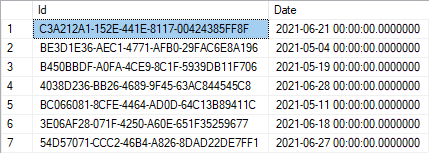
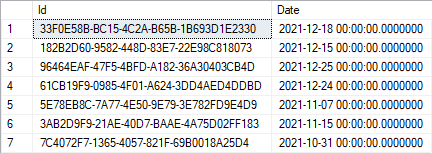
add copyrigt information and update the namespaces

diff --git a/sources/QueryableVsEnumerable/Migrations/20211112035111_Initial.Designer.cs b/sources/QueryableVsEnumerable/Migrations/20211112035111_Initial.Designer.cs
@@ -1,17 +1,17 @@
 // <auto-generated />
 using System;
+using DustInTheWind.QueryableVsEnumerable;
 using Microsoft.EntityFrameworkCore;
 using Microsoft.EntityFrameworkCore.Infrastructure;
 using Microsoft.EntityFrameworkCore.Metadata;
 using Microsoft.EntityFrameworkCore.Migrations;
 using Microsoft.EntityFrameworkCore.Storage.ValueConversion;
-using QueryableVsEnumerable;
 
-namespace QueryableVsEnumerable.Migrations
+namespace DustInTheWind.QueryableVsEnumerable.Migrations
 {
     [DbContext(typeof(ShopDbContext))]
-    [Migration("20210628064709_Second")]
-    partial class Second
+    [Migration("20211112035111_Initial")]
+    partial class Initial
     {
         protected override void BuildTargetModel(ModelBuilder modelBuilder)
         {
@@ -21,7 +21,7 @@ namespace QueryableVsEnumerable.Migrations
                 .HasAnnotation("ProductVersion", "5.0.7")
                 .HasAnnotation("SqlServer:ValueGenerationStrategy", SqlServerValueGenerationStrategy.IdentityColumn);
 
-            modelBuilder.Entity("QueryableVsEnumerable.Order", b =>
+            modelBuilder.Entity("DustInTheWind.QueryableVsEnumerable.Order", b =>
                 {
                     b.Property<Guid>("Id")
                         .ValueGeneratedOnAdd()
@@ -37,38 +37,38 @@ namespace QueryableVsEnumerable.Migrations
                     b.HasData(
                         new
                         {
-                            Id = new Guid("d5ec2305-3db5-4864-ba7d-bdc2c3da0d88"),
-                            Date = new DateTime(2021, 6, 28, 0, 0, 0, 0, DateTimeKind.Local)
+                            Id = new Guid("96464eaf-47f5-4bfd-a182-36a30403cb4d"),
+                            Date = new DateTime(2021, 12, 25, 0, 0, 0, 0, DateTimeKind.Unspecified)
                         },
                         new
                         {
-                            Id = new Guid("80fd270c-de5f-4deb-90f9-ac76d28398a0"),
-                            Date = new DateTime(2021, 5, 4, 0, 0, 0, 0, DateTimeKind.Local)
+                            Id = new Guid("7c4072f7-1365-4057-821f-69b0018a25d4"),
+                            Date = new DateTime(2021, 10, 31, 0, 0, 0, 0, DateTimeKind.Unspecified)
                         },
                         new
                         {
-                            Id = new Guid("0469137b-ae56-40d3-9488-596a7a9e188d"),
-                            Date = new DateTime(2021, 6, 21, 0, 0, 0, 0, DateTimeKind.Local)
+                            Id = new Guid("33f0e58b-bc15-4c2a-b65b-1b693d1e2330"),
+                            Date = new DateTime(2021, 12, 18, 0, 0, 0, 0, DateTimeKind.Unspecified)
                         },
                         new
                         {
-                            Id = new Guid("6e63fd29-c5f9-4ec4-9f3f-57838454425b"),
-                            Date = new DateTime(2021, 6, 18, 0, 0, 0, 0, DateTimeKind.Local)
+                            Id = new Guid("182b2d60-9582-448d-83e7-22e98c818073"),
+                            Date = new DateTime(2021, 12, 15, 0, 0, 0, 0, DateTimeKind.Unspecified)
                         },
                         new
                         {
-                            Id = new Guid("b12b46ed-f1e8-4942-b525-87465d56084f"),
-                            Date = new DateTime(2021, 5, 19, 0, 0, 0, 0, DateTimeKind.Local)
+                            Id = new Guid("3ab2d9f9-21ae-40d7-baae-4a75d02ff183"),
+                            Date = new DateTime(2021, 11, 15, 0, 0, 0, 0, DateTimeKind.Unspecified)
                         },
                         new
                         {
-                            Id = new Guid("2bedf5b3-05a9-4d43-92db-0bbad201d1de"),
-                            Date = new DateTime(2021, 6, 27, 0, 0, 0, 0, DateTimeKind.Local)
+                            Id = new Guid("61cb19f9-0985-4f01-a624-3dd4aed4ddbd"),
+                            Date = new DateTime(2021, 12, 24, 0, 0, 0, 0, DateTimeKind.Unspecified)
                         },
                         new
                         {
-                            Id = new Guid("cbdafc5d-257f-4eec-8177-af56175bf26f"),
-                            Date = new DateTime(2021, 5, 11, 0, 0, 0, 0, DateTimeKind.Local)
+                            Id = new Guid("5e78eb8c-7a77-4e50-9e79-3e782fd9e4d9"),
+                            Date = new DateTime(2021, 11, 7, 0, 0, 0, 0, DateTimeKind.Unspecified)
                         });
                 });
 #pragma warning restore 612, 618

diff --git a/sources/QueryableVsEnumerable/Migrations/ShopDbContextModelSnapshot.cs b/sources/QueryableVsEnumerable/Migrations/ShopDbContextModelSnapshot.cs
@@ -1,12 +1,12 @@
 // <auto-generated />
 using System;
+using DustInTheWind.QueryableVsEnumerable;
 using Microsoft.EntityFrameworkCore;
 using Microsoft.EntityFrameworkCore.Infrastructure;
 using Microsoft.EntityFrameworkCore.Metadata;
 using Microsoft.EntityFrameworkCore.Storage.ValueConversion;
-using QueryableVsEnumerable;
 
-namespace QueryableVsEnumerable.Migrations
+namespace DustInTheWind.QueryableVsEnumerable.Migrations
 {
     [DbContext(typeof(ShopDbContext))]
     partial class ShopDbContextModelSnapshot : ModelSnapshot
@@ -19,7 +19,7 @@ namespace QueryableVsEnumerable.Migrations
                 .HasAnnotation("ProductVersion", "5.0.7")
                 .HasAnnotation("SqlServer:ValueGenerationStrategy", SqlServerValueGenerationStrategy.IdentityColumn);
 
-            modelBuilder.Entity("QueryableVsEnumerable.Order", b =>
+            modelBuilder.Entity("DustInTheWind.QueryableVsEnumerable.Order", b =>
                 {
                     b.Property<Guid>("Id")
                         .ValueGeneratedOnAdd()
@@ -35,38 +35,38 @@ namespace QueryableVsEnumerable.Migrations
                     b.HasData(
                         new
                         {
-                            Id = new Guid("d5ec2305-3db5-4864-ba7d-bdc2c3da0d88"),
-                            Date = new DateTime(2021, 6, 28, 0, 0, 0, 0, DateTimeKind.Local)
+                            Id = new Guid("96464eaf-47f5-4bfd-a182-36a30403cb4d"),
+                            Date = new DateTime(2021, 12, 25, 0, 0, 0, 0, DateTimeKind.Unspecified)
                         },
                         new
                         {
-                            Id = new Guid("80fd270c-de5f-4deb-90f9-ac76d28398a0"),
-                            Date = new DateTime(2021, 5, 4, 0, 0, 0, 0, DateTimeKind.Local)
+                            Id = new Guid("7c4072f7-1365-4057-821f-69b0018a25d4"),
+                            Date = new DateTime(2021, 10, 31, 0, 0, 0, 0, DateTimeKind.Unspecified)
                         },
                         new
                         {
-                            Id = new Guid("0469137b-ae56-40d3-9488-596a7a9e188d"),
-                            Date = new DateTime(2021, 6, 21, 0, 0, 0, 0, DateTimeKind.Local)
+                            Id = new Guid("33f0e58b-bc15-4c2a-b65b-1b693d1e2330"),
+                            Date = new DateTime(2021, 12, 18, 0, 0, 0, 0, DateTimeKind.Unspecified)
                         },
                         new
                         {
-                            Id = new Guid("6e63fd29-c5f9-4ec4-9f3f-57838454425b"),
-                            Date = new DateTime(2021, 6, 18, 0, 0, 0, 0, DateTimeKind.Local)
+                            Id = new Guid("182b2d60-9582-448d-83e7-22e98c818073"),
+                            Date = new DateTime(2021, 12, 15, 0, 0, 0, 0, DateTimeKind.Unspecified)
                         },
                         new
                         {
-                            Id = new Guid("b12b46ed-f1e8-4942-b525-87465d56084f"),
-                            Date = new DateTime(2021, 5, 19, 0, 0, 0, 0, DateTimeKind.Local)
+                            Id = new Guid("3ab2d9f9-21ae-40d7-baae-4a75d02ff183"),
+                            Date = new DateTime(2021, 11, 15, 0, 0, 0, 0, DateTimeKind.Unspecified)
                         },
                         new
                         {
-                            Id = new Guid("2bedf5b3-05a9-4d43-92db-0bbad201d1de"),
-                            Date = new DateTime(2021, 6, 27, 0, 0, 0, 0, DateTimeKind.Local)
+                            Id = new Guid("61cb19f9-0985-4f01-a624-3dd4aed4ddbd"),
+                            Date = new DateTime(2021, 12, 24, 0, 0, 0, 0, DateTimeKind.Unspecified)
                         },
                         new
                         {
-                            Id = new Guid("cbdafc5d-257f-4eec-8177-af56175bf26f"),
-                            Date = new DateTime(2021, 5, 11, 0, 0, 0, 0, DateTimeKind.Local)
+                            Id = new Guid("5e78eb8c-7a77-4e50-9e79-3e782fd9e4d9"),
+                            Date = new DateTime(2021, 11, 7, 0, 0, 0, 0, DateTimeKind.Unspecified)
                         });
                 });
 #pragma warning restore 612, 618

diff --git a/sources/QueryableVsEnumerable/ShopDbContext.cs b/sources/QueryableVsEnumerable/ShopDbContext.cs
@@ -1,7 +1,23 @@
-using System;
+// C# Pills 15mg
+// Copyright (C) 2021 Dust in the Wind
+// 
+// This program is free software: you can redistribute it and/or modify
+// it under the terms of the GNU General Public License as published by
+// the Free Software Foundation, either version 3 of the License, or
+// (at your option) any later version.
+// 
+// This program is distributed in the hope that it will be useful,
+// but WITHOUT ANY WARRANTY; without even the implied warranty of
+// MERCHANTABILITY or FITNESS FOR A PARTICULAR PURPOSE.  See the
+// GNU General Public License for more details.
+// 
+// You should have received a copy of the GNU General Public License
+// along with this program.  If not, see <http://www.gnu.org/licenses/>.
+
+using System;
 using Microsoft.EntityFrameworkCore;
 
-namespace QueryableVsEnumerable
+namespace DustInTheWind.QueryableVsEnumerable
 {
     internal class ShopDbContext : DbContext
     {
@@ -22,7 +38,7 @@ namespace QueryableVsEnumerable
         {
             base.OnModelCreating(modelBuilder);
 
-            DateTime today = DateTime.Today;
+            DateTime christmasDay = new DateTime(2021, 12, 25);
 
             //   -55   -48   -40    -10    -7    -1    0
             // ------------------   ---------------------
@@ -32,37 +48,37 @@ namespace QueryableVsEnumerable
                 new Order
                 {
                     Id = Guid.NewGuid(),
-                    Date = today
+                    Date = christmasDay
                 },
                 new Order
                 {
                     Id = Guid.NewGuid(),
-                    Date = today.AddDays(-55)
+                    Date = christmasDay.AddDays(-55)
                 },
                 new Order
                 {
                     Id = Guid.NewGuid(),
-                    Date = today.AddDays(-7)
+                    Date = christmasDay.AddDays(-7)
                 },
                 new Order
                 {
                     Id = Guid.NewGuid(),
-                    Date = today.AddDays(-10)
+                    Date = christmasDay.AddDays(-10)
                 },
                 new Order
                 {
                     Id = Guid.NewGuid(),
-                    Date = today.AddDays(-40)
+                    Date = christmasDay.AddDays(-40)
                 },
                 new Order
                 {
                     Id = Guid.NewGuid(),
-                    Date = today.AddDays(-1)
+                    Date = christmasDay.AddDays(-1)
                 },
                 new Order
                 {
                     Id = Guid.NewGuid(),
-                    Date = today.AddDays(-48)
+                    Date = christmasDay.AddDays(-48)
                 }
             };
 

diff --git a/sources/QueryableVsEnumerable/Migrations/20211112035111_Initial.cs b/sources/QueryableVsEnumerable/Migrations/20211112035111_Initial.cs
@@ -1,7 +1,7 @@
 using System;
 using Microsoft.EntityFrameworkCore.Migrations;
 
-namespace QueryableVsEnumerable.Migrations
+namespace DustInTheWind.QueryableVsEnumerable.Migrations
 {
     public partial class Initial : Migration
     {
@@ -24,10 +24,13 @@ namespace QueryableVsEnumerable.Migrations
                 columns: new[] { "Id", "Date" },
                 values: new object[,]
                 {
-                    { new Guid("b4a9dd01-856a-4c12-b4af-7e44638f7b55"), new DateTime(2021, 6, 27, 0, 0, 0, 0, DateTimeKind.Local) },
-                    { new Guid("cd181292-a92f-4e87-847a-d11001fcd325"), new DateTime(2021, 6, 18, 0, 0, 0, 0, DateTimeKind.Local) },
-                    { new Guid("13358824-9af8-4c4c-9f71-17ac64bf1b08"), new DateTime(2021, 5, 19, 0, 0, 0, 0, DateTimeKind.Local) },
-                    { new Guid("e1c56df6-89b1-4389-a00f-69d395db2f39"), new DateTime(2021, 5, 4, 0, 0, 0, 0, DateTimeKind.Local) }
+                    { new Guid("96464eaf-47f5-4bfd-a182-36a30403cb4d"), new DateTime(2021, 12, 25, 0, 0, 0, 0, DateTimeKind.Unspecified) },
+                    { new Guid("7c4072f7-1365-4057-821f-69b0018a25d4"), new DateTime(2021, 10, 31, 0, 0, 0, 0, DateTimeKind.Unspecified) },
+                    { new Guid("33f0e58b-bc15-4c2a-b65b-1b693d1e2330"), new DateTime(2021, 12, 18, 0, 0, 0, 0, DateTimeKind.Unspecified) },
+                    { new Guid("182b2d60-9582-448d-83e7-22e98c818073"), new DateTime(2021, 12, 15, 0, 0, 0, 0, DateTimeKind.Unspecified) },
+                    { new Guid("3ab2d9f9-21ae-40d7-baae-4a75d02ff183"), new DateTime(2021, 11, 15, 0, 0, 0, 0, DateTimeKind.Unspecified) },
+                    { new Guid("61cb19f9-0985-4f01-a624-3dd4aed4ddbd"), new DateTime(2021, 12, 24, 0, 0, 0, 0, DateTimeKind.Unspecified) },
+                    { new Guid("5e78eb8c-7a77-4e50-9e79-3e782fd9e4d9"), new DateTime(2021, 11, 7, 0, 0, 0, 0, DateTimeKind.Unspecified) }
                 });
         }
 

diff --git a/sources/QueryableVsEnumerable/Program.cs b/sources/QueryableVsEnumerable/Program.cs
@@ -1,8 +1,24 @@
-using System;
+// C# Pills 15mg
+// Copyright (C) 2021 Dust in the Wind
+// 
+// This program is free software: you can redistribute it and/or modify
+// it under the terms of the GNU General Public License as published by
+// the Free Software Foundation, either version 3 of the License, or
+// (at your option) any later version.
+// 
+// This program is distributed in the hope that it will be useful,
+// but WITHOUT ANY WARRANTY; without even the implied warranty of
+// MERCHANTABILITY or FITNESS FOR A PARTICULAR PURPOSE.  See the
+// GNU General Public License for more details.
+// 
+// You should have received a copy of the GNU General Public License
+// along with this program.  If not, see <http://www.gnu.org/licenses/>.
+
+using System;
 using System.Collections.Generic;
 using System.Linq;
 
-namespace QueryableVsEnumerable
+namespace DustInTheWind.QueryableVsEnumerable
 {
     internal class Program
     {
@@ -19,9 +35,11 @@ namespace QueryableVsEnumerable
             // The `Where` statement is applied on the `IQueryable` instance, while the `OrderBy`
             // is applied after the query was cast to `IEnumerable`.
 
+            DateTime christmasDay = new DateTime(2021, 12, 25);
+
             return dbContext.Orders
-                .Where(x => x.Date >= DateTime.Today.AddDays(-30))
-                //.AsEnumerable()
+                .Where(x => x.Date >= christmasDay.AddDays(-30))
+                .AsEnumerable()
                 .OrderBy(x => x.Date)
                 .ToList();
         }

diff --git a/sources/QueryableVsEnumerable/Order.cs b/sources/QueryableVsEnumerable/Order.cs
@@ -1,11 +1,27 @@
-using System;
+// C# Pills 15mg
+// Copyright (C) 2021 Dust in the Wind
+// 
+// This program is free software: you can redistribute it and/or modify
+// it under the terms of the GNU General Public License as published by
+// the Free Software Foundation, either version 3 of the License, or
+// (at your option) any later version.
+// 
+// This program is distributed in the hope that it will be useful,
+// but WITHOUT ANY WARRANTY; without even the implied warranty of
+// MERCHANTABILITY or FITNESS FOR A PARTICULAR PURPOSE.  See the
+// GNU General Public License for more details.
+// 
+// You should have received a copy of the GNU General Public License
+// along with this program.  If not, see <http://www.gnu.org/licenses/>.
 
-namespace QueryableVsEnumerable
+using System;
+
+namespace DustInTheWind.QueryableVsEnumerable
 {
-internal class Order
-{
-    public Guid Id { get; set; }
-    
-    public DateTime Date { get; set; }
-}
+    internal class Order
+    {
+        public Guid Id { get; set; }
+
+        public DateTime Date { get; set; }
+    }
 }

diff --git a/doc/article/README.md b/doc/article/README.md
@@ -10,7 +10,7 @@
 >
 > ```csharp
 > public abstract class DbSet<TEntity> : IQueryable<TEntity>, IAsyncEnumerable<TEntity>, IInfrastructure<IServiceProvider>, IListSource
->     where TEntity : class
+>  where TEntity : class
 > ```
 
 **Step 1: Cast `IQueriable` to `IEnumerable`**
